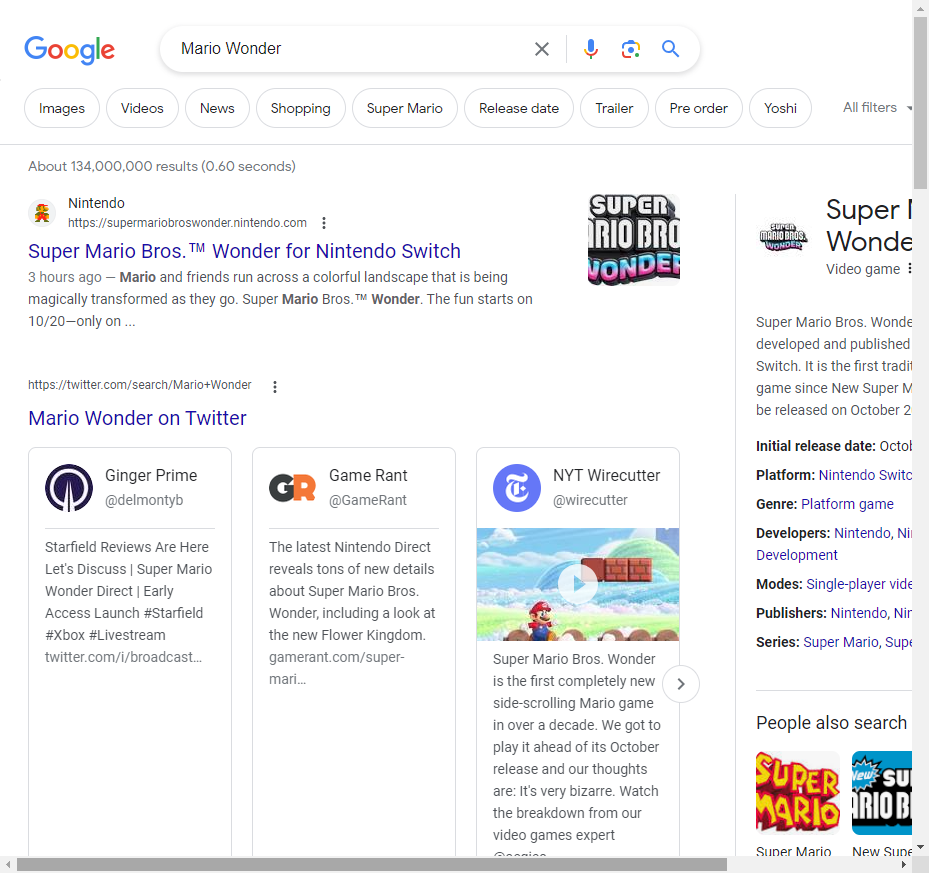
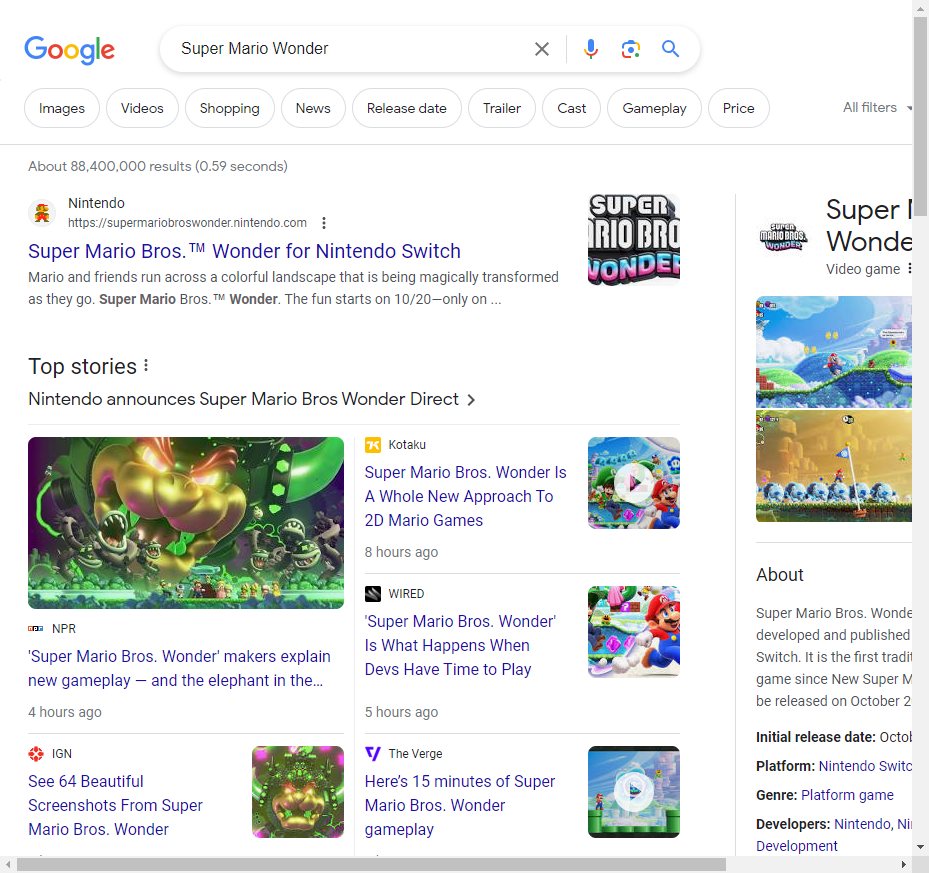
Updating homework, error when writing logs

diff --git a/2.8/googleTestWithPage.test.ts b/2.8/googleTestWithPage.test.ts
@@ -4,9 +4,9 @@ const fs = require('fs')
 
     test('do a search', async () => {
         await page.navigate();
-        await page.search('Mario Wonder');
+        await page.search('Super Mario Wonder');
         let text = await page.getResults();
-        expect(text).toContain('Mario Wonder');
+        expect(text).toContain('Super Mario');
         await fs.writeFile(`${__dirname}/smwr.png`, 
         await page.driver.takeScreenshot(), 'base64',
         (e) => {
